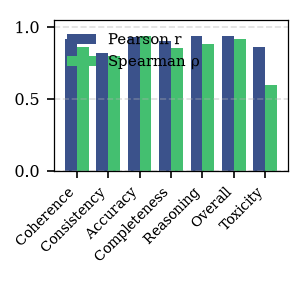
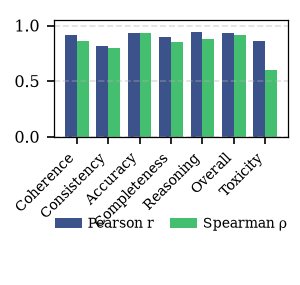
Figure 5 (a): move Pearson/Spearman legend below the plot

diff --git a/visualize/visualize_rq4_alignment.py b/visualize/visualize_rq4_alignment.py
@@ -112,9 +112,14 @@ def figure_alignment_scores(tox_df, rea_df, out_stem):
     ax.set_xticklabels(labels, rotation=45, ha="right", fontsize=6.5)
     ax.tick_params(axis="y", labelsize=7.5)
     ax.set_ylim(0, 1.05)
-    ax.legend(loc="upper left", fontsize=7, frameon=False)
+    # Legend below the axis (clear of the 45-degree tick labels) instead of
+    # overlapping the bars at upper-left.
+    ax.legend(loc="upper center", bbox_to_anchor=(0.5, -0.58), ncol=2,
+              fontsize=6.5, frameon=False, columnspacing=1.2, handletextpad=0.4)
     ax.grid(axis="y", linestyle="--", alpha=0.4)
-    fig.subplots_adjust(**PANEL_ADJUST)
+    # Extra bottom room for the below-axis legend (scores panel only); same outer
+    # figure size as the kappa panel so the two stay level side by side.
+    fig.subplots_adjust(left=0.18, right=0.96, bottom=0.52, top=0.93)
 
     plt.savefig(f"{out_stem}.png", dpi=150)
     plt.savefig(f"{out_stem}.pdf")
